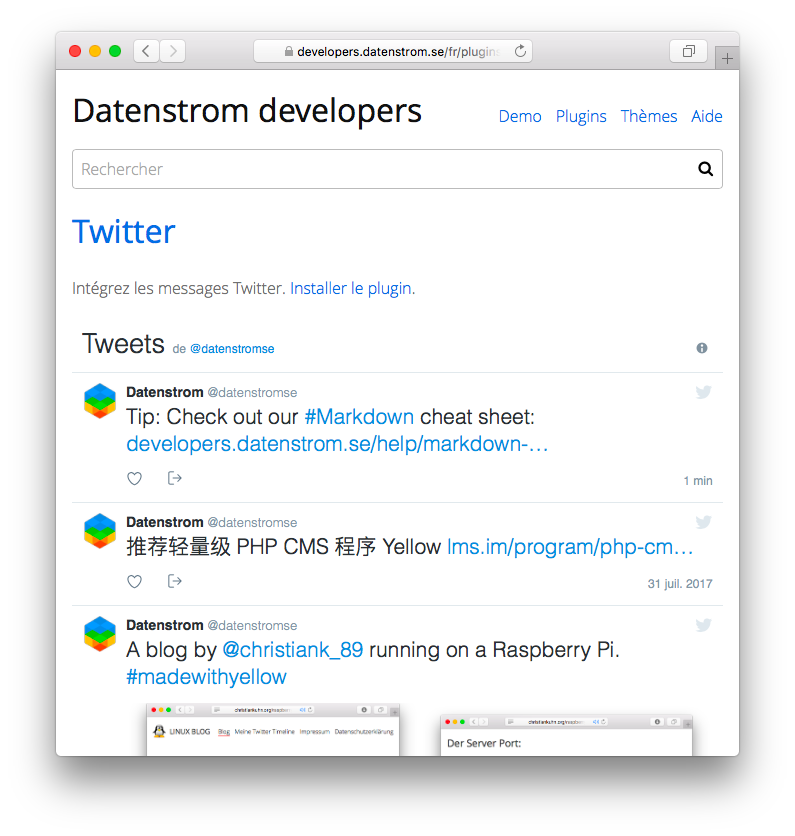
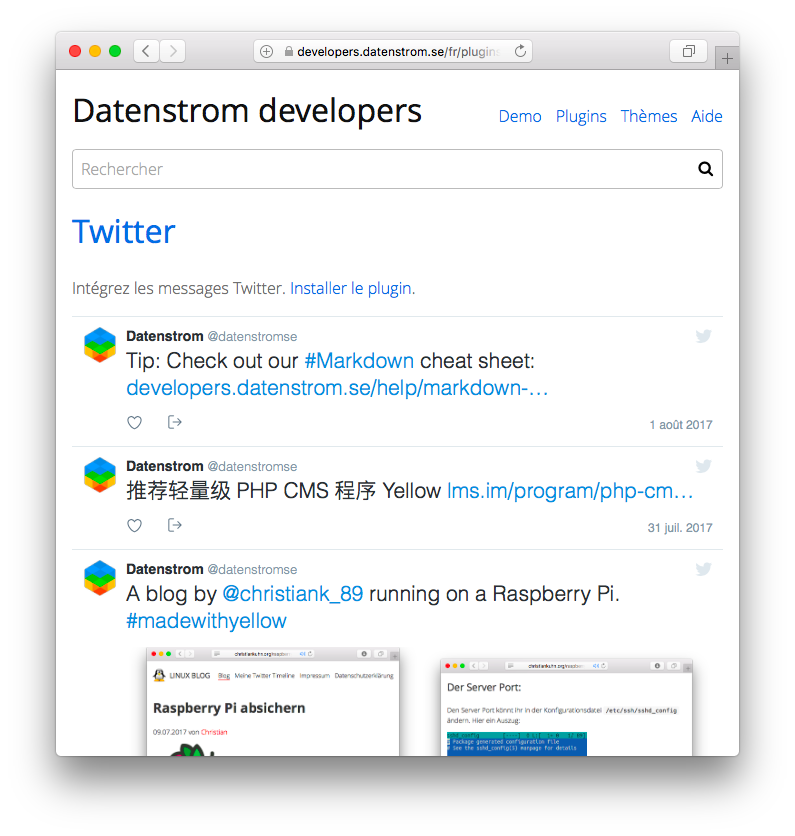
Developer kit update (experimental)

Changed region(s): [[0.0906, 0.3732, 0.9057, 0.9019], [0.8151, 0.4665, 0.9057, 0.5909], [0.8755, 0.3732, 0.9057, 0.4354]]

diff --git a/system/plugins/twitter.js b/system/plugins/twitter.js
@@ -1,0 +1,75 @@
+// Twitter plugin, https://github.com/datenstrom/yellow-plugins/tree/master/twitter
+// Copyright (c) 2013-2017 Datenstrom, https://datenstrom.se
+// This file may be used and distributed under the terms of the public license.
+
+window.twttr = (function(d, s, id)
+{
+	var js, fjs = d.getElementsByTagName(s)[0], t = window.twttr || {};
+	if (d.getElementById(id)) return t;
+	js = d.createElement(s);
+	js.id = id;
+	js.src = "https://platform.twitter.com/widgets.js";
+	fjs.parentNode.insertBefore(js, fjs);
+	t._e = [];
+	t.ready = function(f) { t._e.push(f); };
+	return t;
+}(document, "script", "twitter-wjs"));
+
+var initTwitterFromDOM = function()
+{
+	// Parse Twitter options from DOM
+	var parseOptions = function(element, keyNames)
+	{
+		var options = {};
+		for(var i=0; i<element.attributes.length; i++)
+		{
+			var attribute = element.attributes[i], key, value;
+			if(attribute.nodeName.substr(0, 5)=="data-")
+			{
+				key = attribute.nodeName.substr(5);
+				for(var j=0; j<keyNames.length; j++)
+				{
+					if(key==keyNames[j].toLowerCase())
+					{
+						key = keyNames[j];
+						break;
+					}
+				}
+				switch(attribute.nodeValue)
+				{
+					case "true": value = true; break;
+					case "false": value = false; break;
+					default: value = attribute.nodeValue;
+				}
+				options[key] = value;
+			}
+		}
+		return options;
+	};
+
+	// Initialise twitter elements, show tweets and timelines
+	var twitterElements = document.querySelectorAll(".twitter-tweet");
+	for(var i=0, l=twitterElements.length; i<l; i++)
+	{
+		var id = twitterElements[i].getAttribute("data-id");
+		var options = parseOptions(twitterElements[i], ["linkColor"]);
+		twttr.widgets.createTweet(id, twitterElements[i], options);
+	}
+	twitterElements = document.querySelectorAll(".twitter-timeline");
+	for(var i=0, l=twitterElements.length; i<l; i++)
+	{
+		var source =
+		{
+			sourceType: "url",
+			url: twitterElements[i].getAttribute("data-url")
+		};
+		var options = parseOptions(twitterElements[i], ["tweetLimit", "borderColor", "ariaPolite"]);
+		twttr.widgets.createTimeline(source, twitterElements[i], options);
+	}
+};
+
+if(window.addEventListener) {
+	window.addEventListener("load", initTwitterFromDOM, false);
+} else {
+	window.attachEvent("onload", initTwitterFromDOM);
+}

diff --git a/system/plugins/twitter.php b/system/plugins/twitter.php
@@ -5,13 +5,14 @@
 
 class YellowTwitter
 {
-	const VERSION = "0.7.1";
+	const VERSION = "0.7.2";
 	var $yellow;			//access to API
 	
 	// Handle initialisation
 	function onLoad($yellow)
 	{
 		$this->yellow = $yellow;
+		$this->yellow->config->setDefault("twitterTheme", "light");
 	}
 	
 	// Handle page content parsing of custom block
@@ -20,22 +21,44 @@ class YellowTwitter
 		$output = null;
 		if($name=="twitter" && $shortcut)
 		{
-			list($id, $width, $height, $theme) = $this->yellow->toolbox->getTextArgs($text);
-			$output = "<div class=\"twitter\">\n";
-			$output .= "<a class=\"twitter-timeline\"";
-			if($width && $height) $output .=" data-width=\"".htmlspecialchars($width)."\" data-height=\"".htmlspecialchars($height)."\"";
-			if($theme) $output .=" data-theme=\"".htmlspecialchars($theme)."\"";
-			$output .= " data-dnt=\"true\" href=\"https://twitter.com/".rawurlencode($id)."\">Tweets by @".htmlspecialchars($id)."</a>\n";
-			$output .= "<script async src=\"https://platform.twitter.com/widgets.js\"></script>\n";
-			$output .= "</div>";
+			list($id, $theme, $style, $width, $height) = $this->yellow->toolbox->getTextArgs($text);
+			if(empty($theme)) $theme = $this->yellow->config->get("twitterTheme");
+			$language = $page->get("language");
+			if(is_numeric($id))
+			{
+				$output = "<div class=\"twitter-tweet\" data-id=\"".htmlspecialchars($id)."\"";
+				if($width) $output .=" data-width=\"".htmlspecialchars($width)."\"";
+				if($height) $output .=" data-height=\"".htmlspecialchars($height)."\"";
+				if($style) $output .=" data-align=\"".htmlspecialchars($style)."\"";
+				$output .= " data-theme=\"".htmlspecialchars($theme)."\" data-lang=\"$language\" data-dnt=\"true\"></div>";
+			} else {
+				$output = "<div class=\"twitter-timeline\" data-url=\"".htmlspecialchars("https://twitter.com/".$id)."\" data-chrome=\"noheader nofooter\"";
+				if($width) $output .=" data-width=\"".htmlspecialchars($width)."\"";
+				if($height) $output .=" data-height=\"".htmlspecialchars($height)."\"";
+				if($style) $output .=" data-align=\"".htmlspecialchars($style)."\"";
+				$output .= " data-theme=\"".htmlspecialchars($theme)."\" data-lang=\"$language\" data-dnt=\"true\"></div>";
+			}
 		}
 		if($name=="twitterfollow" && $shortcut)
 		{
-			list($id) = $this->yellow->toolbox->getTextArgs($text);
-			$output = "<div class=\"twitterfollow\">\n";
-			$output .= "<a href=\"https://twitter.com/".rawurlencode($id)."\" class=\"twitter-follow-button\" data-size=\"large\" data-dnt=\"true\">Follow @".htmlspecialchars($id)."</a>\n";
-			$output .= "<script async src=\"https://platform.twitter.com/widgets.js\"></script>\n";
-			$output .= "</div>";
+			list($id, $dummy, $style) = $this->yellow->toolbox->getTextArgs($text);
+			$language = $page->get("language");
+			if(!empty($style)) $output .= "<div class=\"".htmlspecialchars($style)."\">";
+			$output .= "<a class=\"twitter-follow-button\" data-size=\"large\"";
+			$output .= " data-show-count=\"false\" data-lang=\"$language\" data-dnt=\"true\" href=\"https://twitter.com/".rawurlencode($id)."\">@".htmlspecialchars($id)."</a>";
+			if(!empty($style)) $output .= "</div>";
+		}
+		return $output;
+	}
+
+	// Handle page extra HTML data
+	function onExtra($name)
+	{
+		$output = null;
+		if($name=="header")
+		{
+			$pluginLocation = $this->yellow->config->get("serverBase").$this->yellow->config->get("pluginLocation");
+			$output = "<script type=\"text/javascript\" src=\"{$pluginLocation}twitter.js\"></script>\n";
 		}
 		return $output;
 	}
